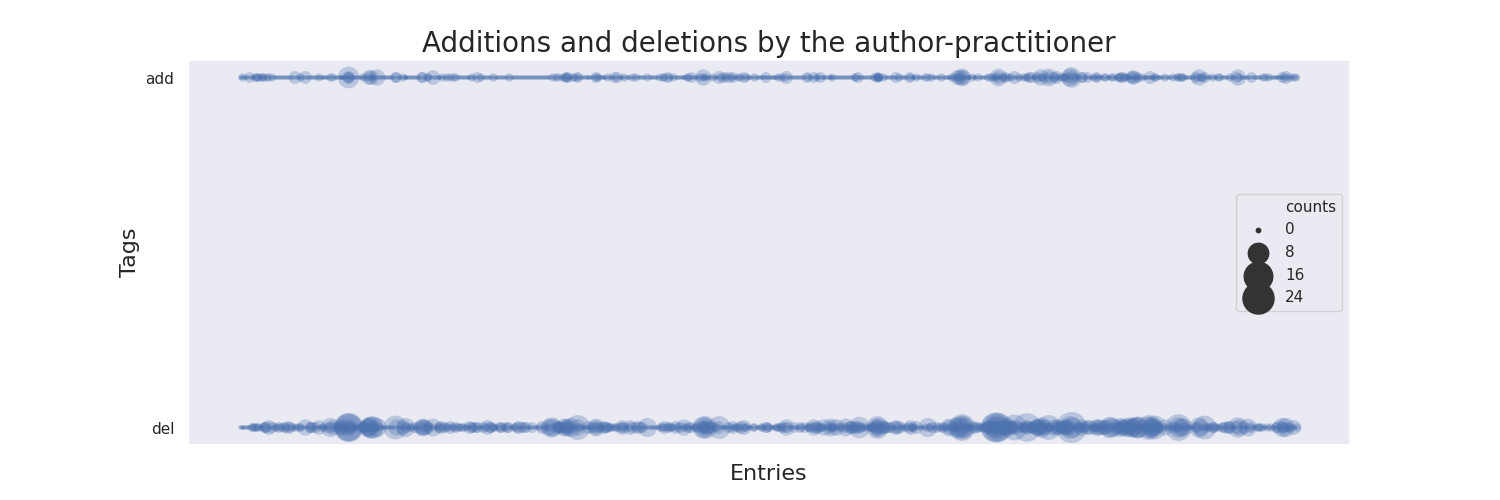
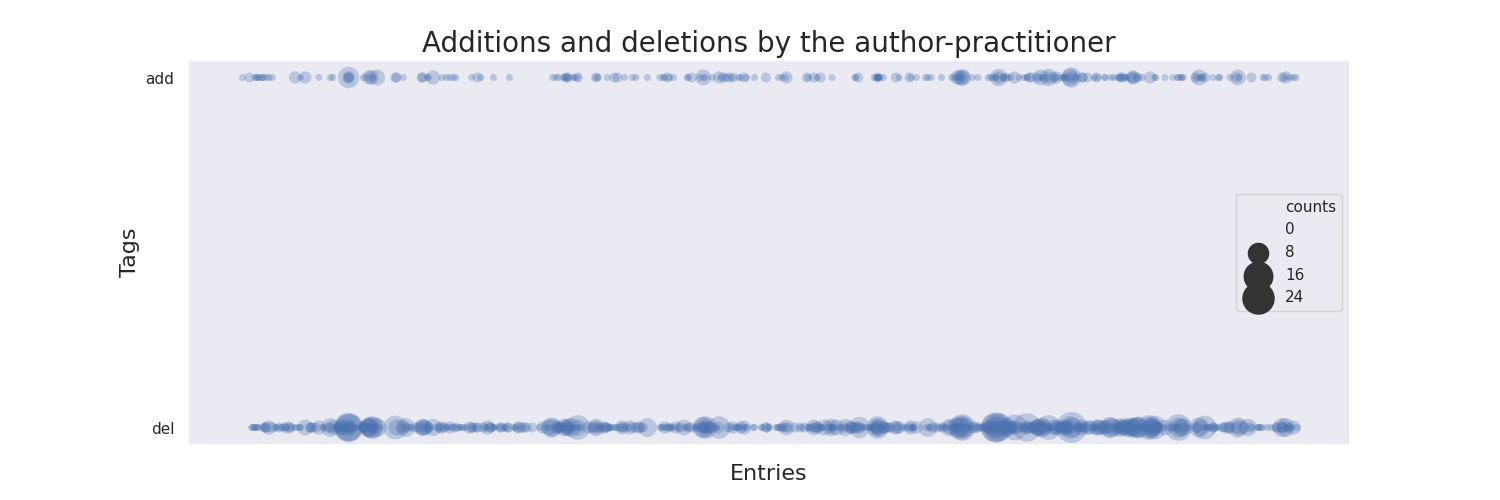
added distplots + tweaked bubbleplots + renamed scatterplots

diff --git a/manuscript_visualizations.py b/manuscript_visualizations.py
@@ -98,7 +98,7 @@ def tags_bubbleplot(search_tags, filename, title, normalized):
     plt.subplots(figsize = (15, 5))
     #plt.gcf().subplots_adjust(left = 0.05)
     #plt.gcf().subplots_adjust(right = 0.95)
-    bubbleplot = sns.scatterplot(x = "entries", y = "tags", size = "counts", sizes = (10, 500), data = df, linewidth = 0, alpha = 0.3)
+    bubbleplot = sns.scatterplot(x = "entries", y = "tags", size = "counts", sizes = (0, 500), data = df, linewidth = 0, alpha = 0.3)
 
     bubbleplot.grid(False)
     bubbleplot.set_ylabel("Tags", fontsize = 16)
@@ -163,7 +163,7 @@ def categories_barplot():
     fig.savefig(viz_path + "categories_barplot.png")
 
 
-def entry_words_scatterplot(logscale):
+def entries_lengths_scatterplot(logscale):
     for manuscript_version in ["tc", "tcn", "tl"]:
 
         entries = []
@@ -241,9 +241,58 @@ def entry_words_scatterplot(logscale):
 
         fig = scatter.get_figure()
         if logscale:
-            fig.savefig(f"{viz_path}entry_words_scatterplot_logscale_{manuscript_version}.png")
+            fig.savefig(f"{viz_path}entries_lengths_scatterplot_logscale_{manuscript_version}.png")
         else:
-            fig.savefig(f"{viz_path}entry_words_scatterplot_linearscale_{manuscript_version}.png")
+            fig.savefig(f"{viz_path}entries_lengths_scatterplot_linearscale_{manuscript_version}.png")
+
+
+def entries_lengths_distplot():
+    for manuscript_version in ["tc", "tcn", "tl"]:
+
+        lengths = []
+        normalized_lengths = []
+
+        for i in range(0, 340):
+            number = format(i//2 + 1, '03')
+            side = "r" if (i % 2 == 0) else "v"
+
+            folio = f'{manuscript_version}_p{number}{side}_preTEI'
+            input_filename = f'{m_path}/ms-xml/{manuscript_version}/{folio}.xml'
+
+            tree = etree.parse(input_filename)
+
+            for div in tree.findall(".//div"):
+                entry = div.get("id")
+                if entry == None:
+                    continue
+                entry_text = etree.tostring(div, method = "text", encoding="UTF-8").decode('utf-8')
+                entry_words = entry_text.split()
+                number_of_words = len(entry_words)
+                number_of_different_words = len(list(dict.fromkeys(entry_words))) # duplicates removed
+                lengths.append(number_of_words)
+                normalized_lengths.append(number_of_different_words)
+
+        df = pandas.DataFrame({"lengths": lengths, "normalized_lengths": normalized_lengths})
+
+        plt.subplots(figsize = (10, 10))
+        #plt.gcf().subplots_adjust(left = 0.05)
+        #plt.gcf().subplots_adjust(right = 0.95)
+
+        distplt = sns.distplot(a = df["normalized_lengths"], kde = True, color = "r",
+                               kde_kws = {"color": "r", "lw": 3, "label": "Number of differents words per entry"},
+                               bins = np.linspace(0, 800, 40))
+        distplt = sns.distplot(a = df["lengths"], kde = True, color = "b",
+                               kde_kws = {"color": "b", "lw": 3, "label": "Total number of words per entry"},
+                               bins = np.linspace(0, 800, 40))
+
+        distplt.set_xlabel("")
+        distplt.set_title(f"Density estimate of the lengths of entries [{manuscript_version}]", fontsize = 20)
+        distplt.set_yticklabels([])
+        distplt.set_xlim(0, 900)
+        distplt.legend(fancybox = True)
+
+        fig = distplt.get_figure()
+        fig.savefig(f"{viz_path}entries_lengths_distplot_{manuscript_version}.png")
 
 
 def tags_by_category_swarmplot(search_tags, filename, title):
@@ -355,8 +404,10 @@ tags_bubbleplot(["del", "add"], "add_del_bubbles_normalized", "Additions and del
 
 categories_barplot()
 
-entry_words_scatterplot(True)
-entry_words_scatterplot(False)
+entries_lengths_scatterplot(True)
+entries_lengths_scatterplot(False)
+
+entries_lengths_distplot()
 
 tags_by_category_swarmplot(["<del>", "<add>"], "add_del_swarmplot", "Additions and deletions by the author-practitioner")
 
